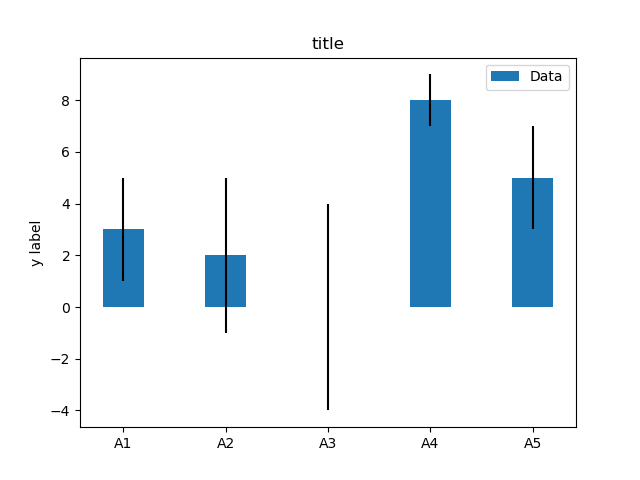
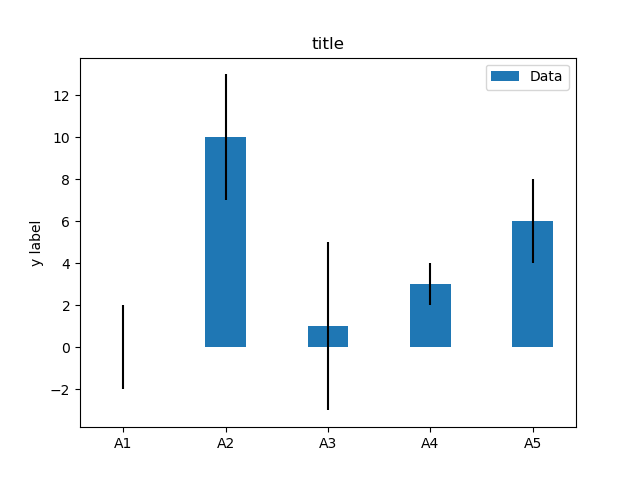
first commit

diff --git a/example.py b/example.py
@@ -2,7 +2,7 @@ import numpy as np
 import matplotlib.pyplot as plt
 
 labels = ['A1', 'A2', 'A3', 'A4', 'A5']
-m_means = [3,2,0,8,5]
+m_means = [0,10,1,3,6]
 m_std = [2, 3, 4, 1, 2]
 width = 0.40       # the width of the bars
 

diff --git a/README.md b/README.md
@@ -1,4 +1,4 @@
-# Matplotlib no 168 
+# Matplotlib no 169 
 
 python example
 
